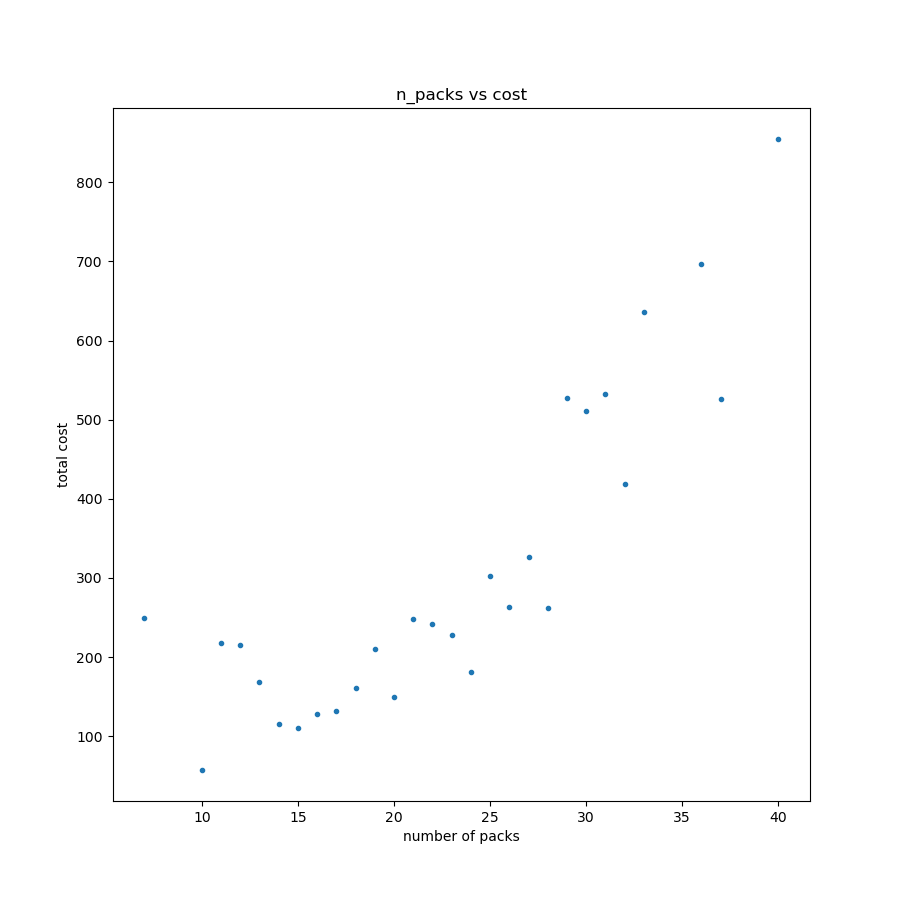
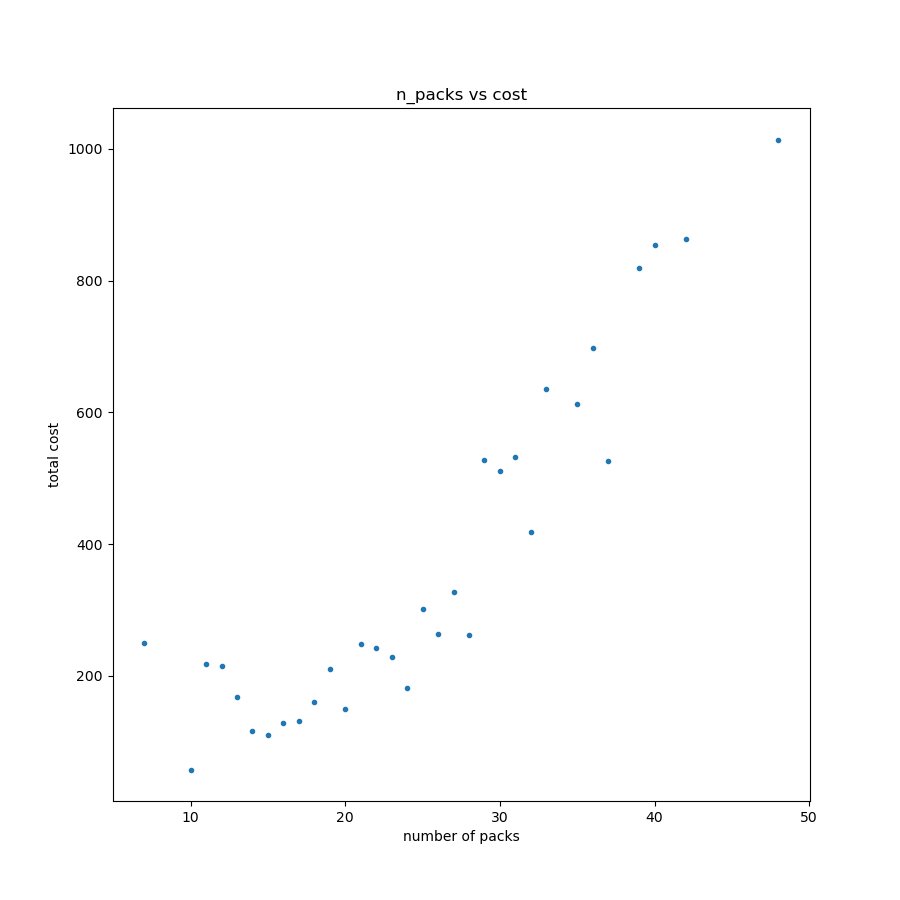
update again MIP

diff --git a/analyze/analyze_all.py b/analyze/analyze_all.py
@@ -9,13 +9,14 @@ for path in resuslt_path:
         cost = []
         data = f.readlines()
         data.pop(0)
+        temp = []
         for line in data:
-            if 'NO SOLUTION FOUND' in line:
-                data.remove(line)
-            else:
-                values = line.strip().split(",")
-                n_packs.append(int(values[0]))
-                cost.append(float(values[3]))
+            if 'NO SOLUTION FOUND' not in line:
+                temp.append(line)
+        for line in temp:
+            values = line.strip().split(",")
+            n_packs.append(int(values[0]))
+            cost.append(float(values[3]))
 
         plt.figure(figsize=(9, 9))
         plt.plot(n_packs, cost, ".")
@@ -23,15 +24,10 @@ for path in resuslt_path:
         plt.ylabel("total cost")
         plt.title("n_packs vs cost")
         if "CP" in path:
-            print("CP", len(data))
             plt.savefig('analyze/n_packs_vs_cost_CP.png')
         elif "MIP" in path:
-            print("MIP", len(data))
-
             plt.savefig('analyze/n_packs_vs_cost_MIP.png')
         else:
-            print("HEU", len(data))
-
             plt.savefig('analyze/n_packs_vs_cost_HEU.png')
 
     with open(path, "r") as f:
@@ -39,13 +35,14 @@ for path in resuslt_path:
         run_time = []
         data = f.readlines()
         data.pop(0)
+        temp = []
         for line in data:
-            if 'NO SOLUTION FOUND' in line:
-                data.remove(line)
-            else:
-                values = line.strip().split(",")
-                n_packs.append(int(values[0]))
-                run_time.append(float(values[6]))
+            if 'NO SOLUTION FOUND' not in line:
+                temp.append(line)
+        for line in temp:       
+            values = line.strip().split(",")
+            n_packs.append(int(values[0]))
+            run_time.append(float(values[6]))
 
         plt.figure(figsize=(9, 9))
         plt.plot(n_packs, run_time, ".")
